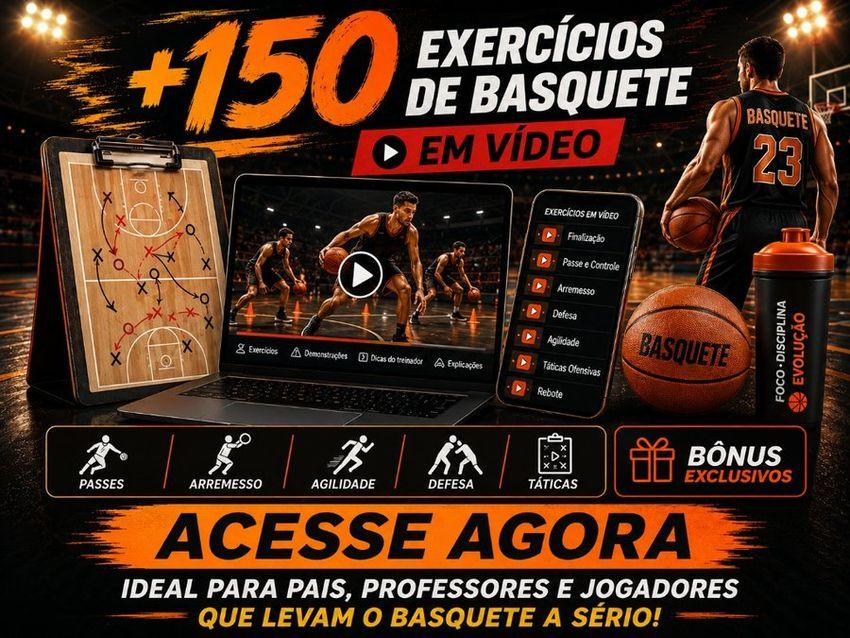
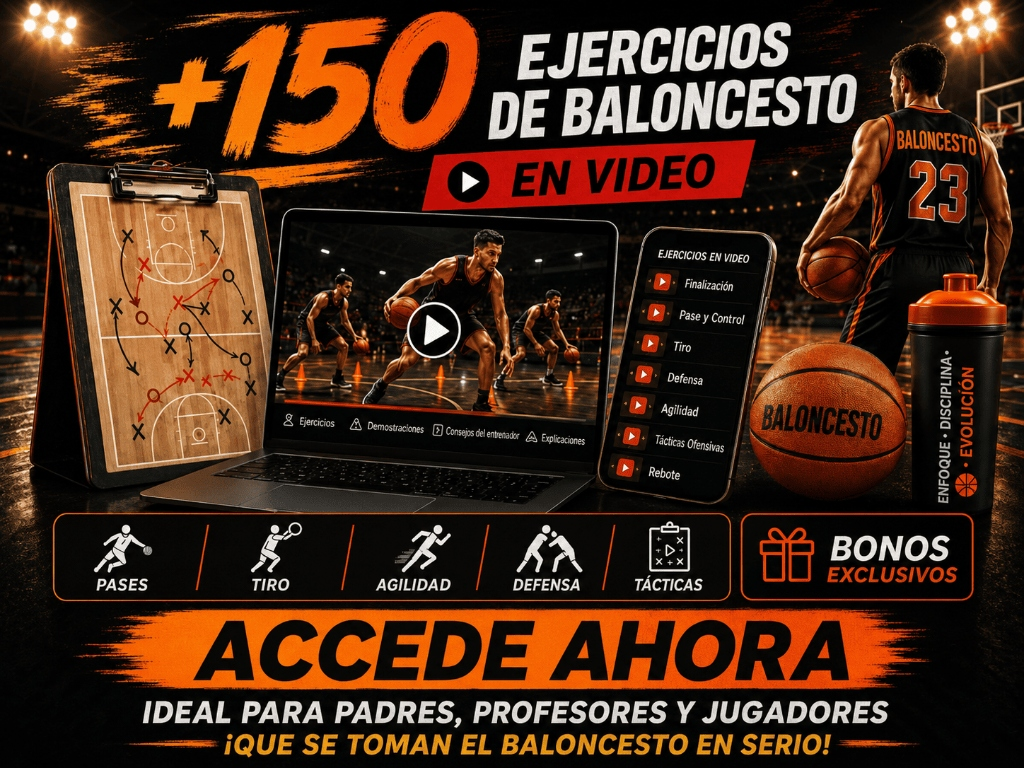
feat(cro): replace hero mockup image with the new Spanish version

diff --git a/index.html b/index.html
@@ -438,11 +438,7 @@ footer{padding:30px 16px;text-align:center;color:var(--text-secondary);font-size
     <h1><span class="orange">+150 Ejercicios</span><br>de Baloncesto en Video<br><span class="highlight">Listos para Aplicar</span></h1>
     <p class="sub">Planifica tus entrenamientos en minutos. Más organización, más resultados y jugadores motivados desde el primer día con nuestra aplicación interactiva.</p>
     <div class="hero-img">
-      <picture>
-        <source media="(max-width: 768px)" srcset="images/hero_mobile.webp" type="image/webp">
-        <source media="(min-width: 769px)" srcset="images/hero_desktop.webp" type="image/webp">
-        <img src="images/hero.jpg" alt="150 Entrenamientos de Baloncesto" width="850" height="638" loading="eager" fetchpriority="high">
-      </picture>
+      <img src="images/hero.jpg" alt="150 Entrenamientos de Baloncesto" width="850" height="638" loading="eager" fetchpriority="high">
     </div>
     <a class="cta" href="#precios">¡QUIERO ACCEDER AHORA!</a>
   </div>